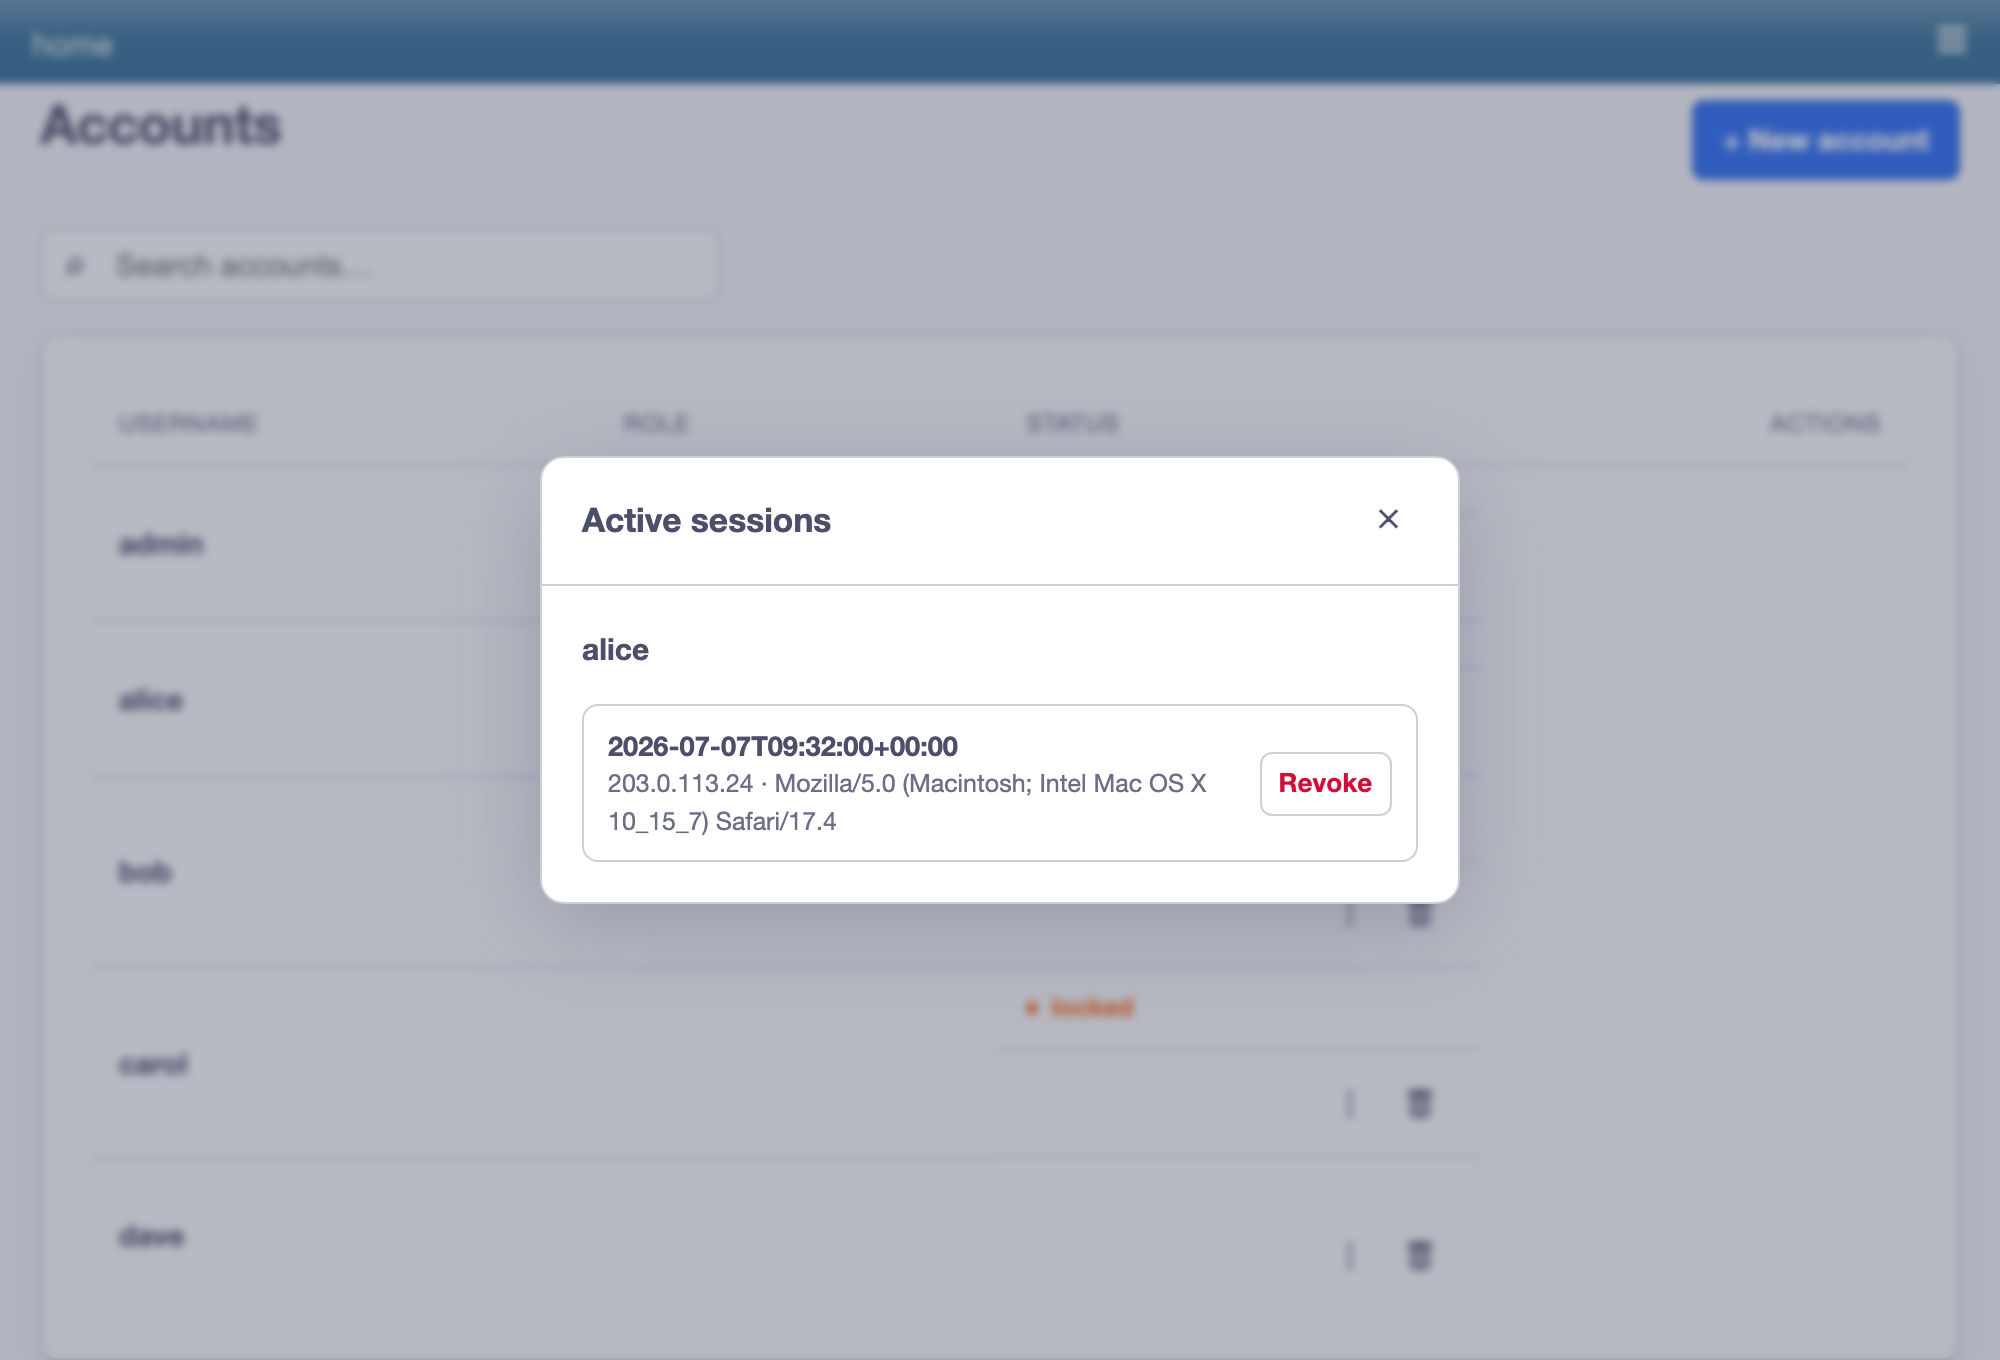
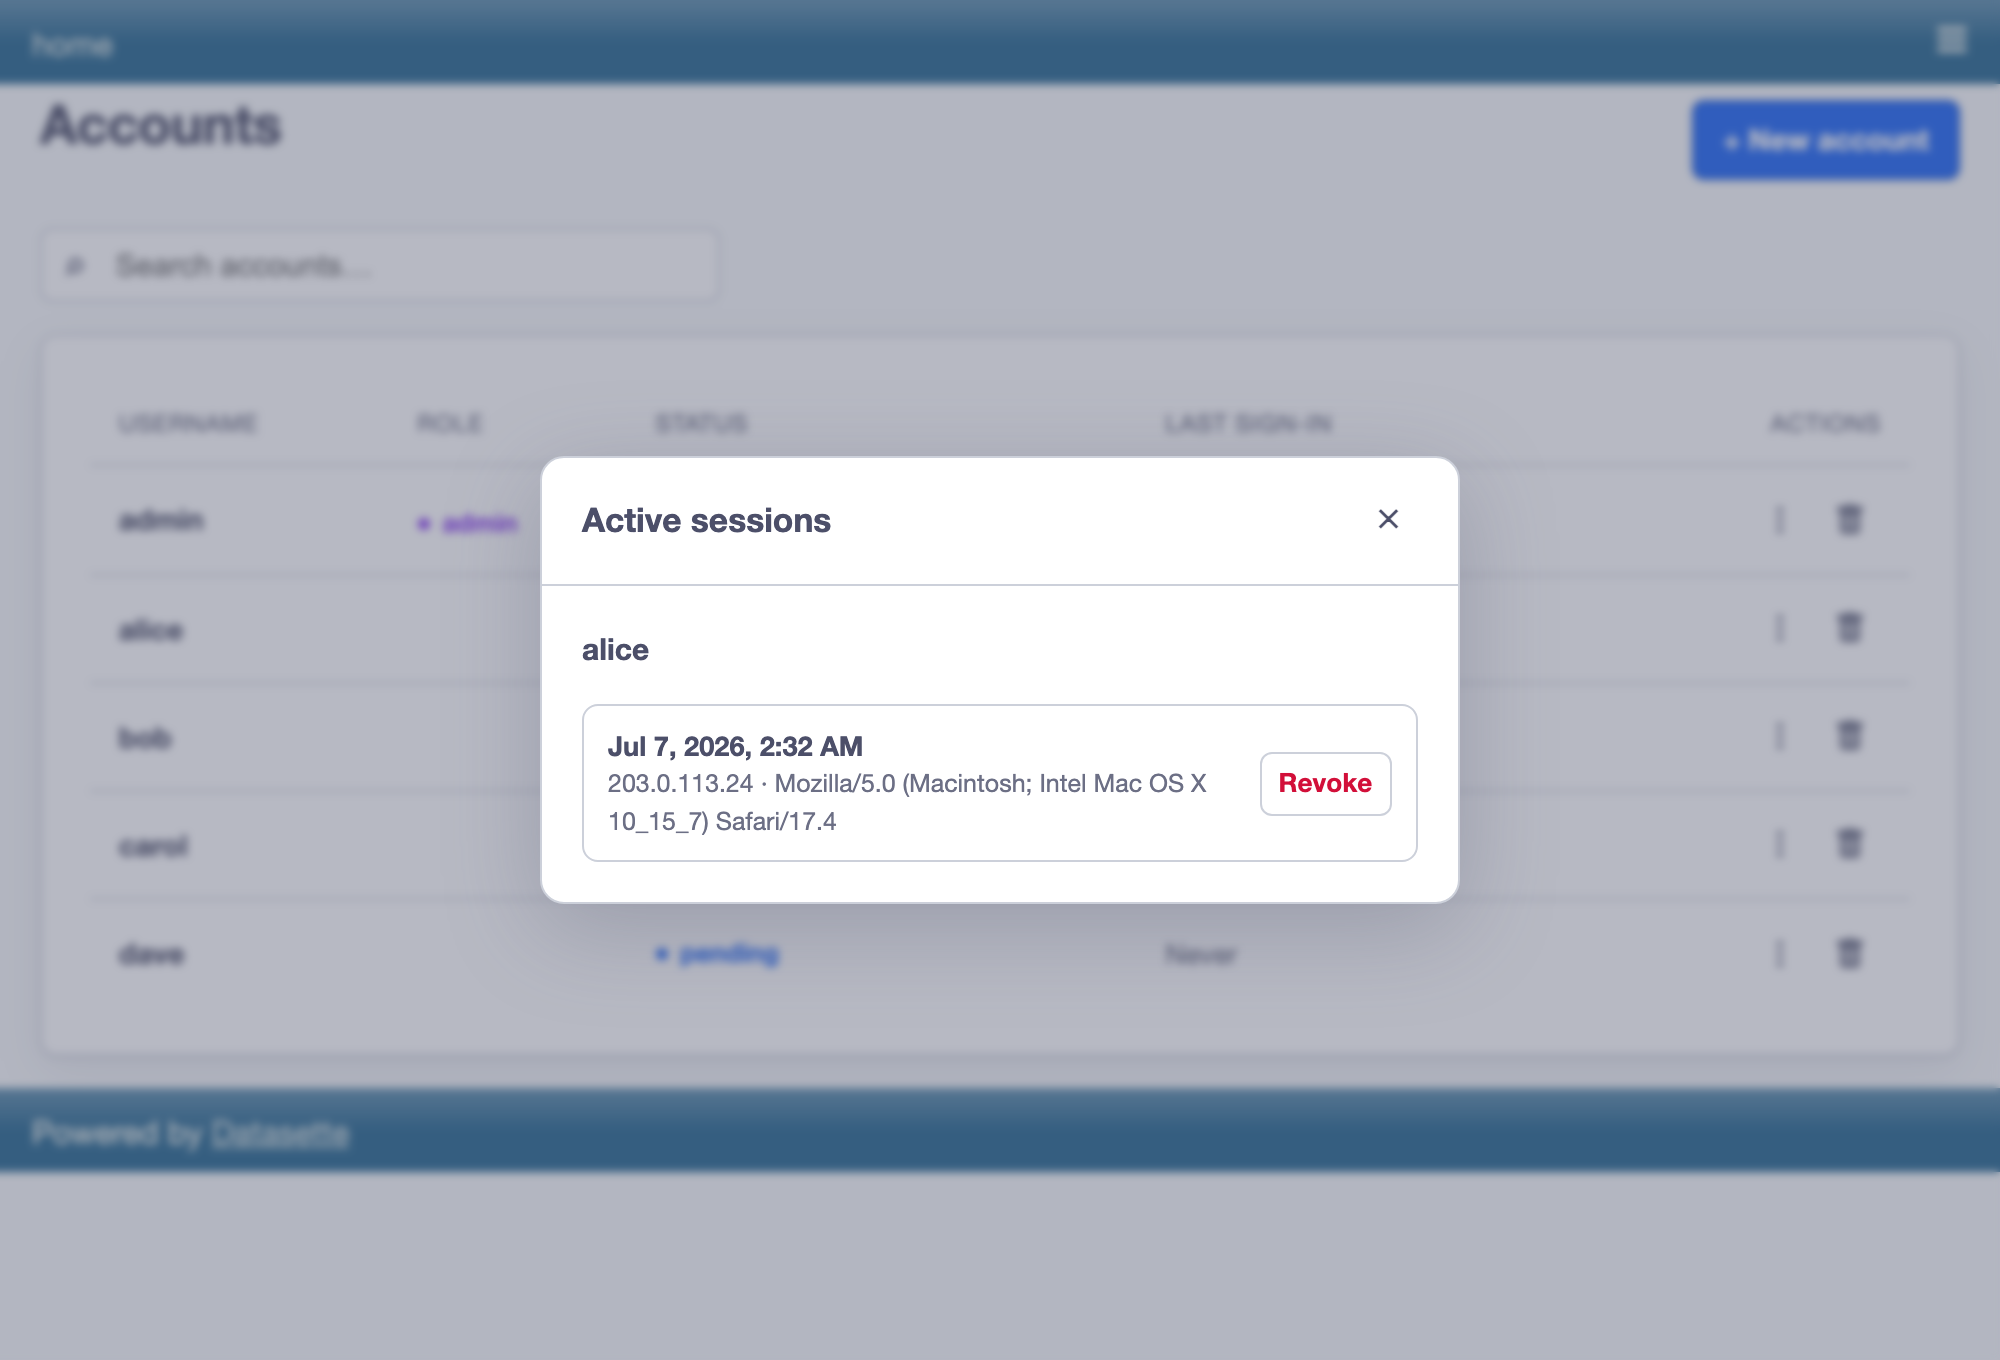
Show pending accounts + last sign-in; password-manager polish
Admin page:
- Track last_login_at on users (new m002 migration; stamped on every
  successful login via record_login_success).
- Surface it in the admin list as a "Last sign-in" column and a
  "pending" badge for accounts that have never signed in.
- Format the sessions modal timestamp with the same locale helper.

Login / change-password pages:
- Add id/name and autocapitalize/correct/spellcheck=off to fields so
  1Password / Chrome recognise them.
- Change-password now carries a hidden autocomplete="username" field so
  managers associate the new password with the account and offer to
  update the saved entry.

Regenerated doc screenshots.

diff --git a/frontend/src/pages/account/AccountPage.svelte b/frontend/src/pages/account/AccountPage.svelte
@@ -45,15 +45,41 @@
     <h2>Change password</h2>
     {#if message}<p class="msg msg-ok">{message}</p>{/if}
     {#if error}<p class="msg msg-error">{error}</p>{/if}
+    <!-- Hidden username so password managers (1Password, Chrome, …) associate the
+         new password with this account and offer to update the saved entry. -->
+    <input
+      class="pw-username"
+      type="text"
+      name="username"
+      autocomplete="username"
+      value={pageData.username}
+      readonly
+      tabindex="-1"
+      aria-hidden="true"
+    />
     {#if !pageData.must_change_password}
       <label class="field">
         <span>Current password</span>
-        <input type="password" bind:value={current} autocomplete="current-password" required />
+        <input
+          id="current-password"
+          name="current-password"
+          type="password"
+          bind:value={current}
+          autocomplete="current-password"
+          required
+        />
       </label>
     {/if}
     <label class="field">
       <span>New password</span>
-      <input type="password" bind:value={next} autocomplete="new-password" required />
+      <input
+        id="new-password"
+        name="new-password"
+        type="password"
+        bind:value={next}
+        autocomplete="new-password"
+        required
+      />
     </label>
     <button type="submit" class="btn-primary" disabled={busy}>
       {busy ? "Saving…" : "Change password"}
@@ -72,5 +98,17 @@
   h2 {
     margin: 0 0 1rem;
     font-size: 1.05rem;
+  }
+  /* Present in the DOM for password managers, but not shown or focusable.
+     `display:none` is avoided because some managers skip such fields. */
+  .pw-username {
+    position: absolute;
+    width: 1px;
+    height: 1px;
+    padding: 0;
+    margin: -1px;
+    overflow: hidden;
+    clip: rect(0, 0, 0, 0);
+    border: 0;
   }
 </style>

diff --git a/frontend/src/pages/admin/AdminPage.svelte b/frontend/src/pages/admin/AdminPage.svelte
@@ -39,6 +39,16 @@
     users.filter((u) => u.username.toLowerCase().includes(search.trim().toLowerCase())),
   );
 
+  // Render a stored ISO timestamp in the viewer's locale; fall back to the raw
+  // value if it can't be parsed.
+  function fmtDate(iso: string | null | undefined): string {
+    if (!iso) return "";
+    const d = new Date(iso);
+    return isNaN(d.getTime())
+      ? iso
+      : d.toLocaleString(undefined, { dateStyle: "medium", timeStyle: "short" });
+  }
+
   // Create-account modal
   let createOpen = $state(false);
   let newUsername = $state("");
@@ -203,6 +213,7 @@
           <th>Username</th>
           <th>Role</th>
           <th>Status</th>
+          <th>Last sign-in</th>
           <th class="right">Actions</th>
         </tr>
       </thead>
@@ -217,7 +228,15 @@
               <div class="status">
                 {#if u.disabled}<span class="badge badge-disabled">disabled</span>{/if}
                 {#if u.locked}<span class="badge badge-locked">locked</span>{/if}
+                {#if !u.last_login_at}<span class="badge badge-pending">pending</span>{/if}
               </div>
+            </td>
+            <td>
+              {#if u.last_login_at}
+                <span class="lastseen">{fmtDate(u.last_login_at)}</span>
+              {:else}
+                <span class="never" title="This account has never signed in.">Never</span>
+              {/if}
             </td>
             <td class="actions">
               <div class="menu-wrap">
@@ -256,7 +275,7 @@
           </tr>
         {/each}
         {#if filtered.length === 0}
-          <tr><td colspan="4" class="empty">No accounts match “{search}”.</td></tr>
+          <tr><td colspan="5" class="empty">No accounts match “{search}”.</td></tr>
         {/if}
       </tbody>
     </table>
@@ -359,7 +378,7 @@
       {#each sessions as s (s.token_sha256)}
         <li>
           <div class="sinfo">
-            <div class="stime">{s.last_seen_at}</div>
+            <div class="stime">{fmtDate(s.last_seen_at)}</div>
             <div class="smeta">{s.ip ?? "unknown IP"} · {s.user_agent ?? "unknown device"}</div>
           </div>
           <button class="btn-sm btn-danger" onclick={() => revoke(s.token_sha256)}>Revoke</button>
@@ -431,7 +450,16 @@
   }
   .status {
     display: flex;
+    flex-wrap: wrap;
     gap: 0.9rem;
+  }
+  .lastseen {
+    font-size: 0.85rem;
+    white-space: nowrap;
+  }
+  .never {
+    font-size: 0.85rem;
+    color: var(--muted);
   }
   .right {
     text-align: right;

diff --git a/frontend/src/pages/login/LoginPage.svelte b/frontend/src/pages/login/LoginPage.svelte
@@ -38,11 +38,28 @@
     {#if error}<p class="msg msg-error">{error}</p>{/if}
     <label class="field">
       <span>Username</span>
-      <input bind:value={username} autocomplete="username" required />
+      <input
+        id="username"
+        name="username"
+        type="text"
+        bind:value={username}
+        autocomplete="username"
+        autocapitalize="none"
+        autocorrect="off"
+        spellcheck="false"
+        required
+      />
     </label>
     <label class="field">
       <span>Password</span>
-      <input type="password" bind:value={password} autocomplete="current-password" required />
+      <input
+        id="current-password"
+        name="password"
+        type="password"
+        bind:value={password}
+        autocomplete="current-password"
+        required
+      />
     </label>
     <button type="submit" class="btn-primary block" disabled={busy}>
       {busy ? "Signing in…" : "Log in"}

diff --git a/frontend/src/lib/theme.css b/frontend/src/lib/theme.css
@@ -255,6 +255,9 @@
 #app-root .badge-disabled {
   color: var(--subtle);
 }
+#app-root .badge-pending {
+  color: var(--acc);
+}
 
 /* Inline messages */
 #app-root .msg {

diff --git a/tests/test_accounts.py b/tests/test_accounts.py
@@ -99,6 +99,32 @@ async def test_login_success_sets_cookie_and_actor():
 
 
 @pytest.mark.asyncio
+async def test_last_login_at_tracks_first_signin():
+    ds = await make_ds()
+    await insert_user(ds, "admin", is_admin=True)
+    await insert_user(ds, "bob")
+
+    def by_name(users):
+        return {u["username"]: u for u in users}
+
+    _, admin_cookies = await login(ds, "admin", "password123")
+    listed = await ds.client.post(
+        "/-/admin/api/list", content="{}", headers=JSON, cookies=admin_cookies
+    )
+    users = by_name(listed.json()["users"])
+    # bob has never signed in -> pending
+    assert users["bob"]["last_login_at"] is None
+
+    # bob signs in for the first time...
+    await login(ds, "bob", "password123")
+    listed = await ds.client.post(
+        "/-/admin/api/list", content="{}", headers=JSON, cookies=admin_cookies
+    )
+    users = by_name(listed.json()["users"])
+    assert users["bob"]["last_login_at"] is not None
+
+
[email redacted]
 async def test_unknown_and_wrong_password_are_indistinguishable():
     ds = await make_ds()
     await insert_user(ds, "alice")

diff --git a/datasette_accounts/db.py b/datasette_accounts/db.py
@@ -88,6 +88,8 @@ def to_user_row(r):
         "must_change_password": bool(r["must_change_password"]),
         "locked": bool(r["locked_until"] and r["locked_until"] > now_iso()),
         "created_at": r["created_at"],
+        # NULL until the account's first successful sign-in ("pending").
+        "last_login_at": r["last_login_at"],
     }
 
 
@@ -148,11 +150,13 @@ async def register_failed_attempt(db, user_id, lockout_threshold, lockout_minute
     return await db.execute_write_fn(write)
 
 
-async def reset_lockout(db, user_id):
+async def record_login_success(db, user_id):
+    """Clear the lockout counters and stamp last_login_at on a successful login."""
+    ts = now_iso()
     await db.execute_write(
         f"UPDATE {USERS} SET failed_attempts = 0, locked_until = NULL, "
-        "updated_at = ? WHERE id = ?",
-        [now_iso(), user_id],
+        "last_login_at = ?, updated_at = ? WHERE id = ?",
+        [ts, ts, user_id],
     )
 
 

diff --git a/datasette_accounts/internal_migrations.py b/datasette_accounts/internal_migrations.py
@@ -58,3 +58,12 @@ def m001_initial(db: Database):
         );
         """
     )
+
+
+@internal_migrations()
+def m002_last_login_at(db: Database):
+    # NULL means the account has never had a successful sign-in ("pending" —
+    # created but not yet initialised by its owner). Set on each login success.
+    db.execute(
+        "ALTER TABLE datasette_accounts_users ADD COLUMN last_login_at TEXT"
+    )

diff --git a/datasette_accounts/page_data.py b/datasette_accounts/page_data.py
@@ -22,6 +22,8 @@ class UserRow(BaseModel):
     must_change_password: bool
     locked: bool
     created_at: str
+    # None until the first successful sign-in — the account is still "pending".
+    last_login_at: Optional[str] = None
 
 
 class AdminPageData(BaseModel):

diff --git a/datasette_accounts/routes/api.py b/datasette_accounts/routes/api.py
@@ -91,7 +91,7 @@ async def authenticate(
         return Response.json({"ok": False, "error": GENERIC_LOGIN_ERROR}, status=401)
 
     # Success.
-    await db.reset_lockout(internal, user["id"])
+    await db.record_login_success(internal, user["id"])
     raw_token = mint_token()
     await db.create_session(
         internal,